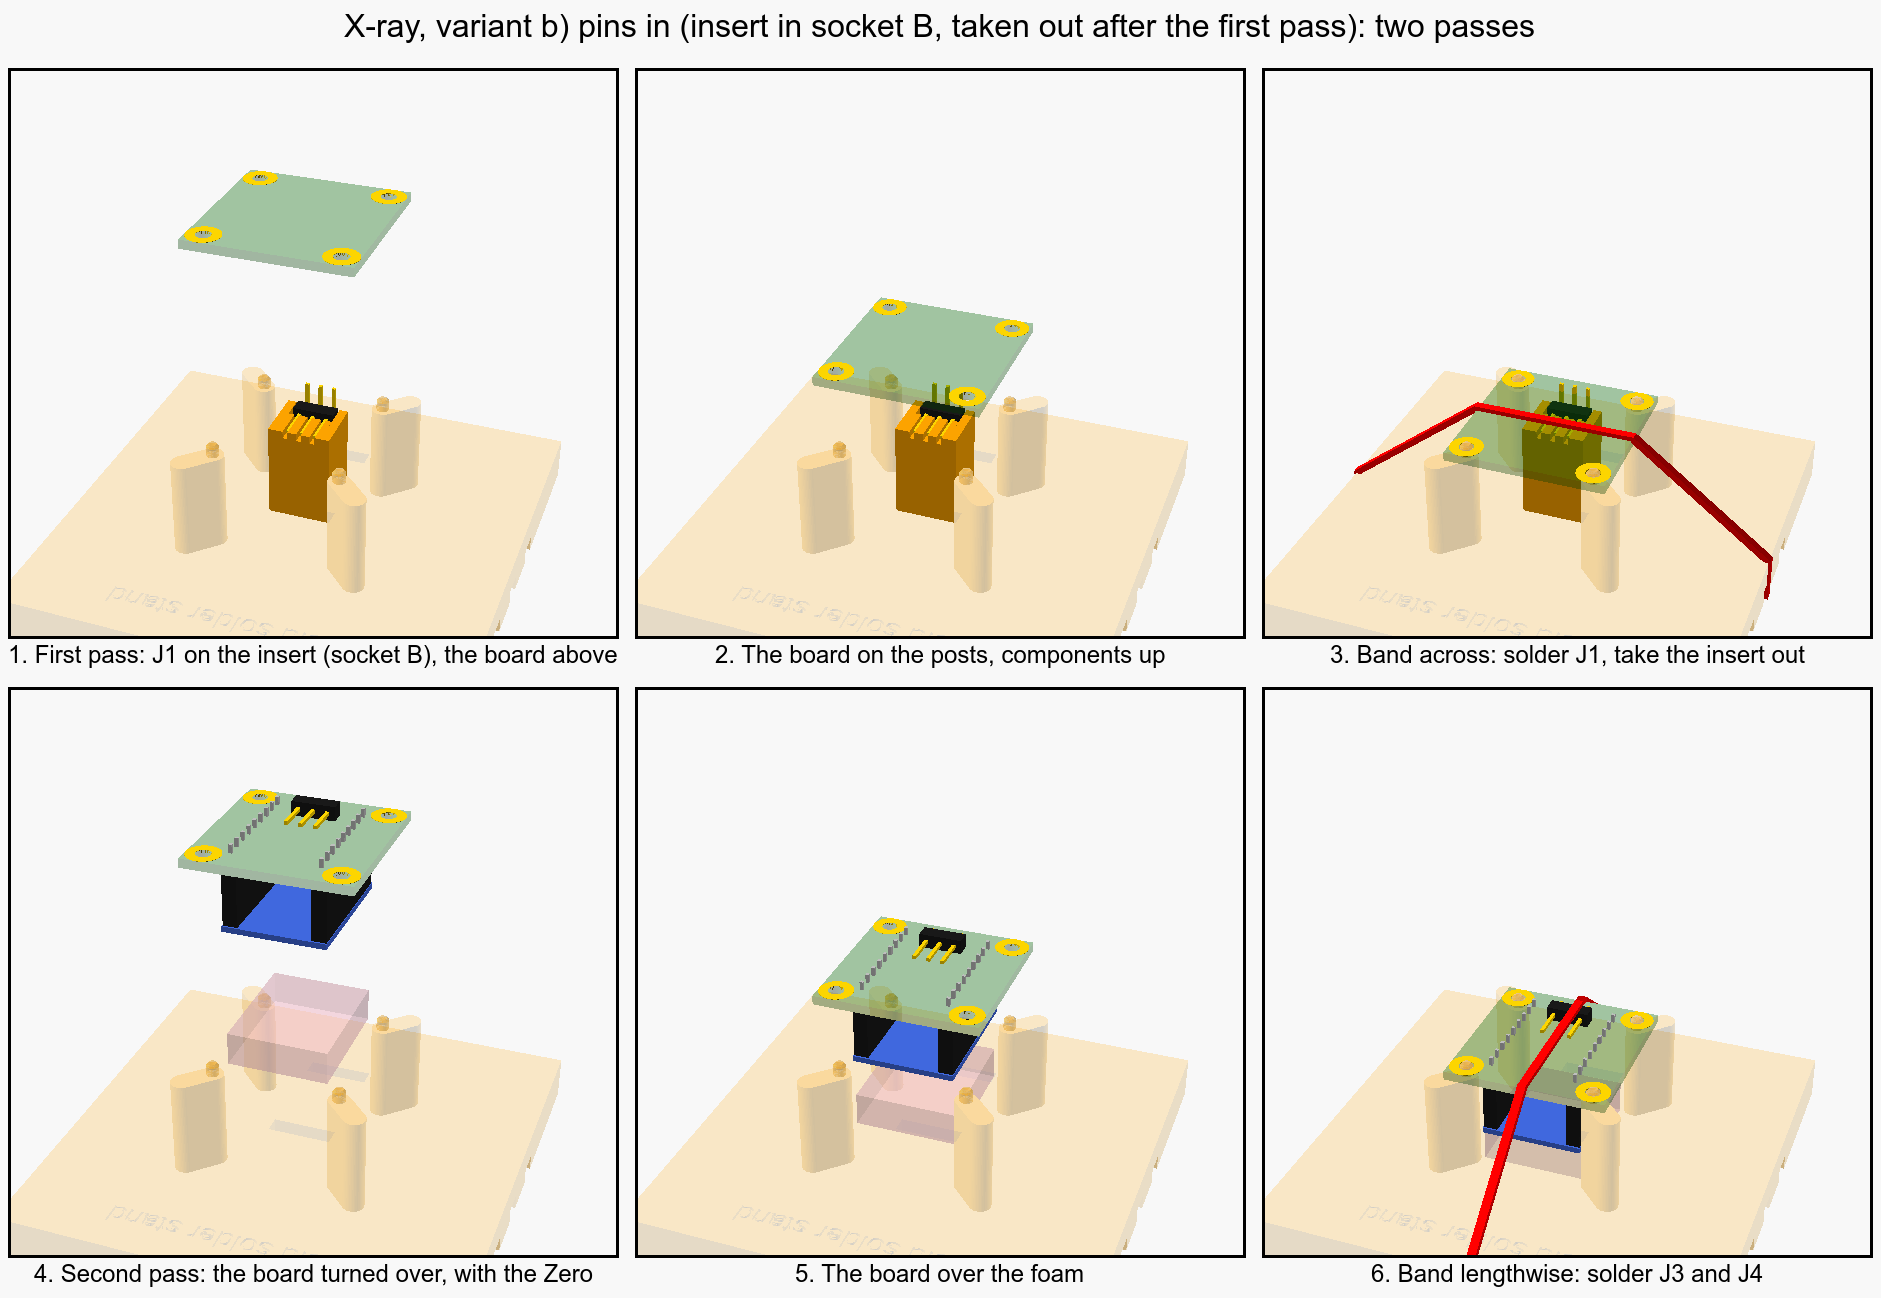
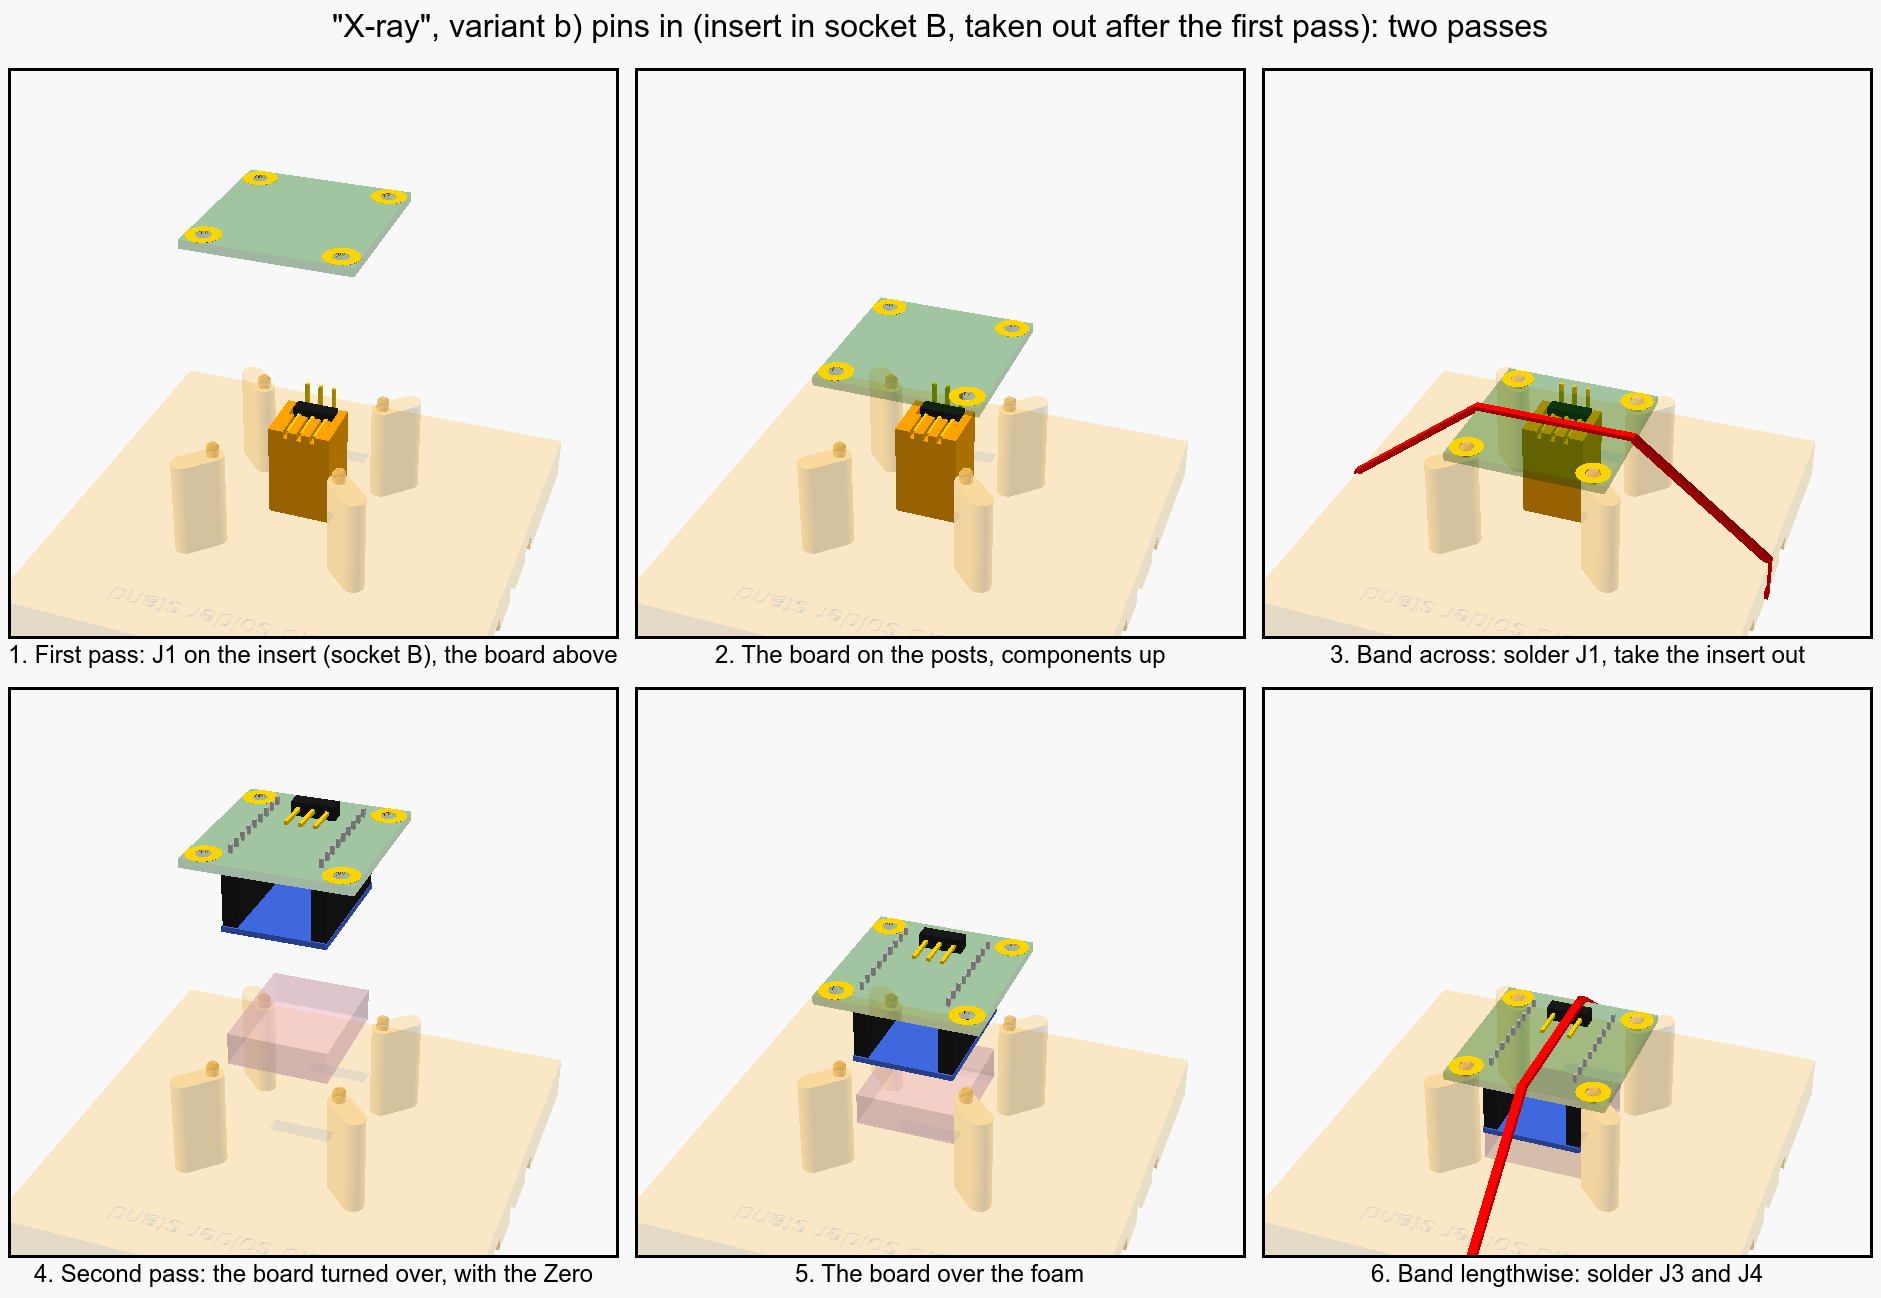
X-ray in quotes: the titles of the pictures and the docs

Changed region(s): [[0.185, 0.0, 0.8325, 0.0308]]

diff --git a/docs/soldering.md b/docs/soldering.md
@@ -85,13 +85,13 @@ Second pass, J3 and J4:
 
 ![The steps of the variant b), the pins in](../hardware/solder_stand/solder_stand_steps_b.png)
 
-## X-ray pictures
+## "X-ray" pictures
 
 The same steps with the stand, the board and the foam semi-transparent, so that the parts hidden behind them show (J1 and the insert under the board, the Zero under the foam). They are an addition to the pictures above, not a replacement:
 
-![X-ray, variant a), the pins out](../hardware/solder_stand/xray/solder_stand_steps.png)
+!["X-ray", variant a), the pins out](../hardware/solder_stand/xray/solder_stand_steps.png)
 
-![X-ray, variant b), the pins in](../hardware/solder_stand/xray/solder_stand_steps_b.png)
+!["X-ray", variant b), the pins in](../hardware/solder_stand/xray/solder_stand_steps_b.png)
 
 ## Notes
 
